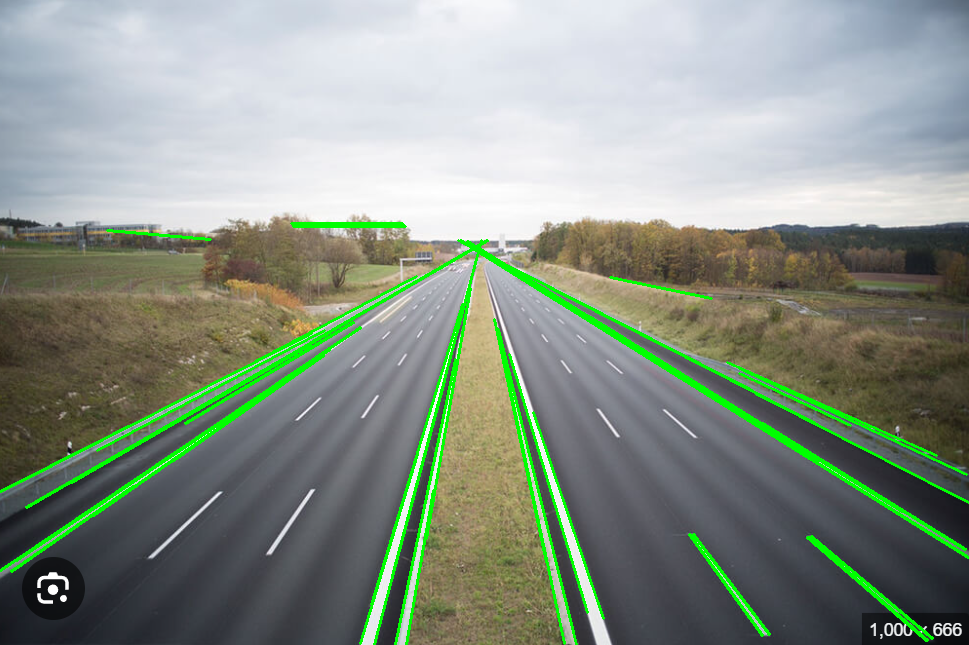
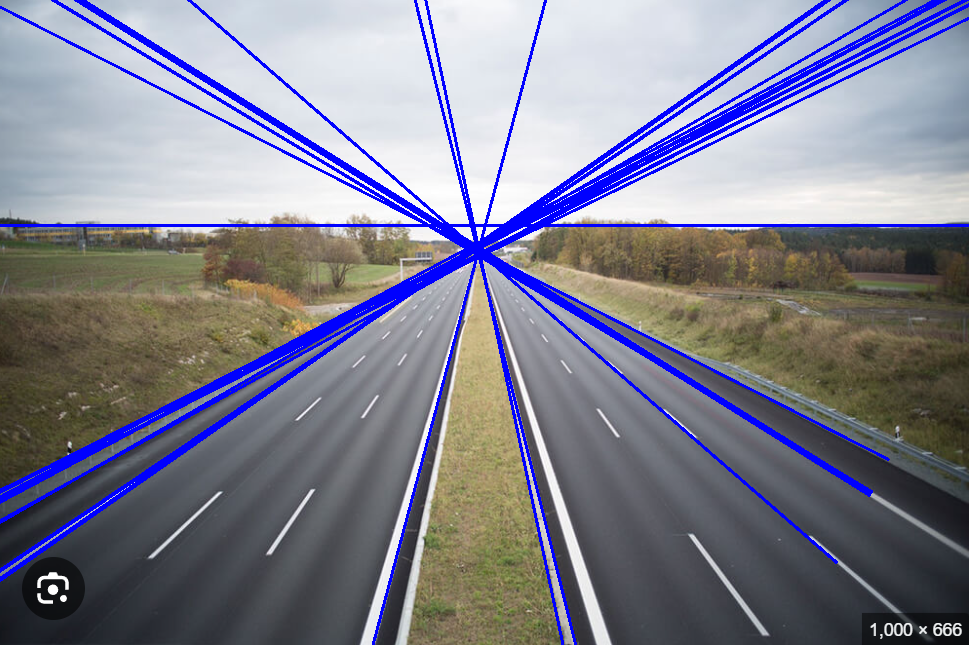
hough by hand(python)

diff --git a/hough_transform/python/transform_by_hand.py b/hough_transform/python/transform_by_hand.py
@@ -1,0 +1,61 @@
+import cv2
+import numpy as np
+
+# Load the image
+image = cv2.imread('/home/uko9054/ce392/CE392-Assignments/hough_transform/python/1.png')
+
+# Convert it to grayscale
+gray = cv2.cvtColor(image, cv2.COLOR_BGR2GRAY)
+
+cv2.imwrite('gray.png', gray)
+
+
+# Apply Canny edge detection
+edges = cv2.Canny(gray, 100, 150, apertureSize=3)
+
+cv2.imwrite('edges.png', edges)
+
+# Use HoughLinesP to detect lines
+# Parameters: image, rho accuracy, theta accuracy, threshold
+# rho and theta are in pixel and radian units respectively, threshold is the minimum vote for it to be considered a line
+img_height, img_width = edges.shape
+# theta_resolution = 1
+# rho_resolution = 1
+theta_max = 90
+theta_min = -90
+thetas = np.deg2rad(np.arange(theta_min, theta_max))
+rho_max = int(np.round(np.sqrt(img_height**2 + img_width ** 2)))
+accumulator = np.zeros((2 * rho_max, len(thetas)), dtype=np.uint64)
+
+for y in range(img_height):
+    for x in range(img_width):
+        if edges[y, x] > 0:  # Edge pixel
+            for theta in range(len(thetas)):
+                rho = int((x * np.cos(thetas[theta])) + (y * np.sin(thetas[theta]))) + rho_max
+                accumulator[rho, theta] += 1
+                
+threshold = 200  # Threshold of votes to be considered a line
+lines = np.where(accumulator > threshold)
+
+for rho_minus_rho_max, theta in zip(*lines):
+    rho = rho_minus_rho_max - rho_max
+    a = np.cos(thetas[theta])
+    b = np.sin(thetas[theta])
+    x0 = (a * rho)
+    y0 = (b * rho)
+    x1 = int(x0 + 1000 * (-b))
+    y1 = int(y0 + 1000 * (a))
+    x2 = int(x0 - 1000 * (-b))
+    y2 = int(y0 - 1000 * (a))
+    
+    cv2.line(image, (x1, y1), (x2, y2), (255, 0, 0), 2)
+
+# lines = cv2.HoughLinesP(edges, 1, np.pi / 180, 100, minLineLength=100, maxLineGap=10)
+
+# # Draw lines on the original image
+# for line in lines:
+#     x1, y1, x2, y2 = line[0]
+#     cv2.line(image, (x1, y1), (x2, y2), (0, 255, 0), 2)
+
+# Display the result
+cv2.imwrite('output.png', image)
